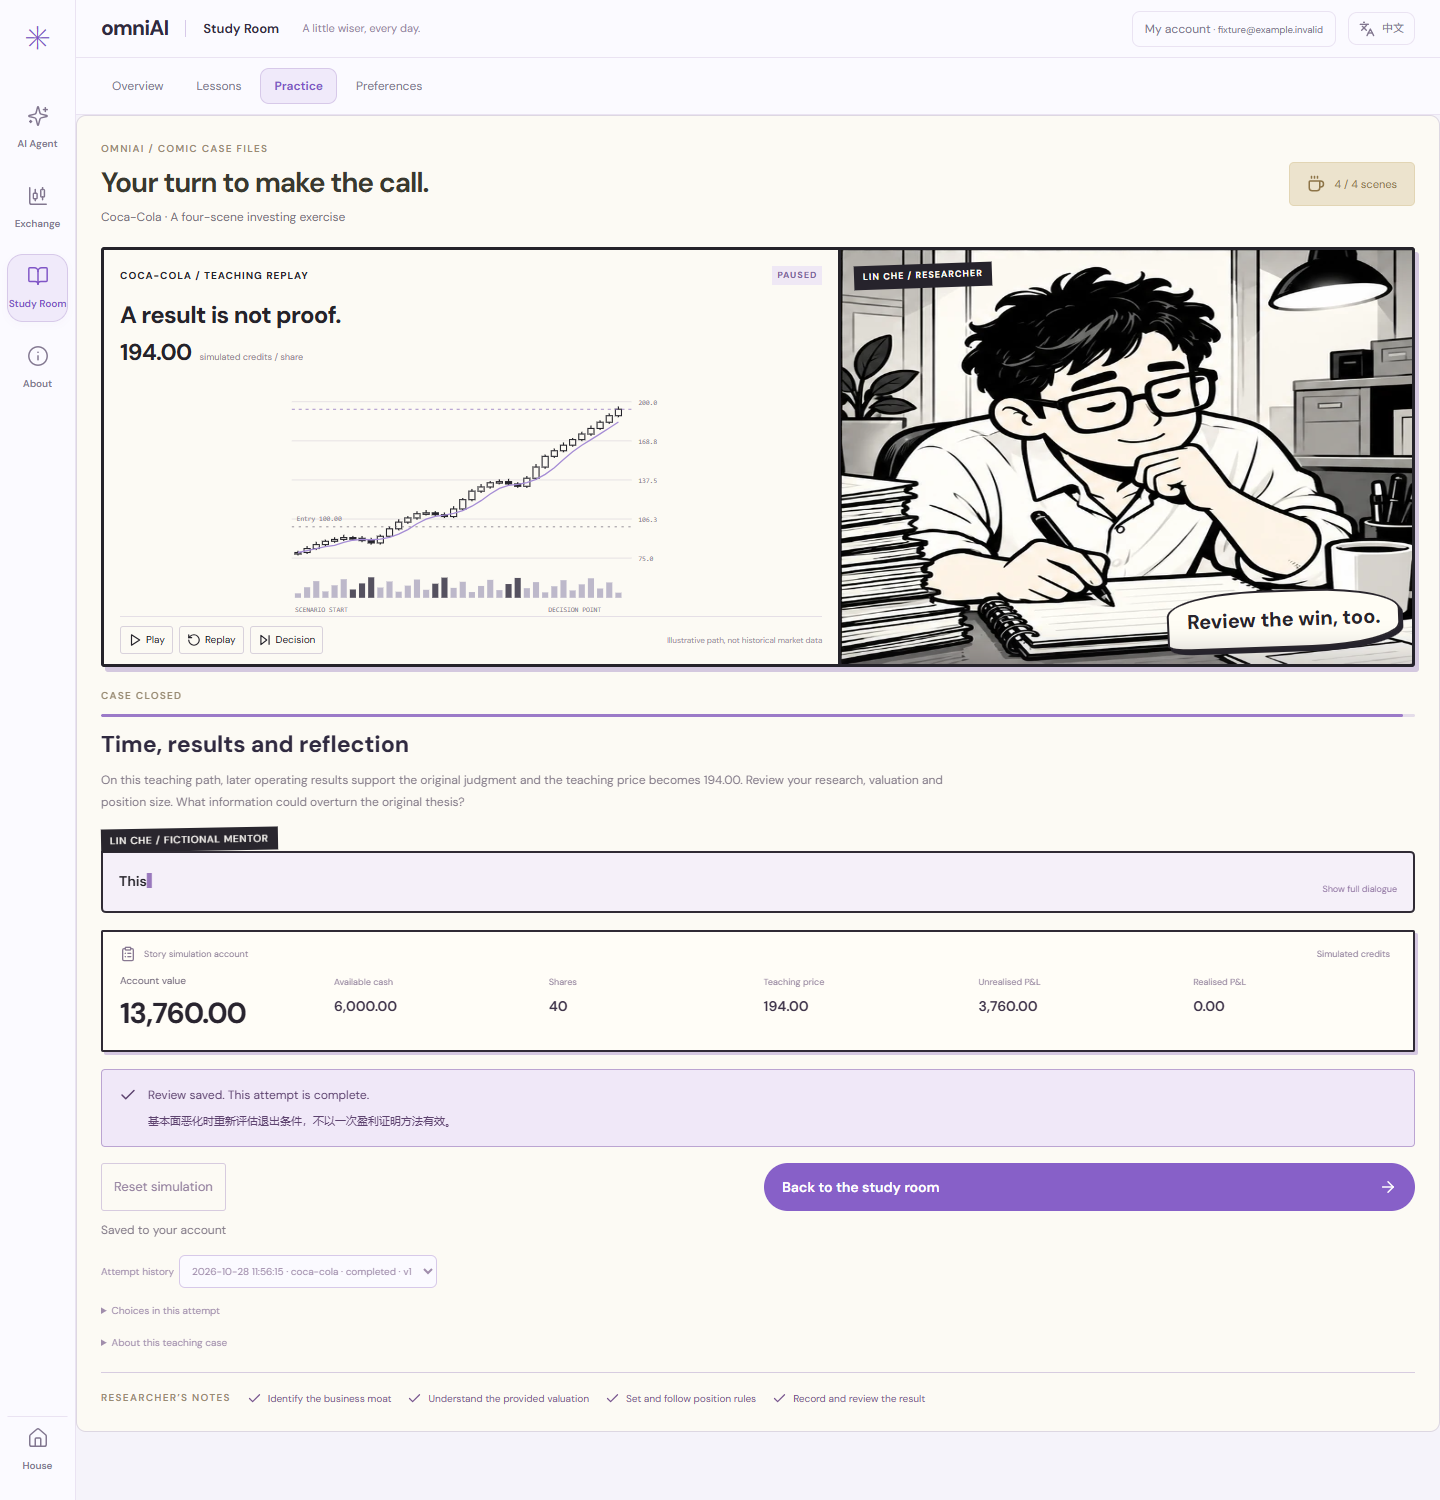
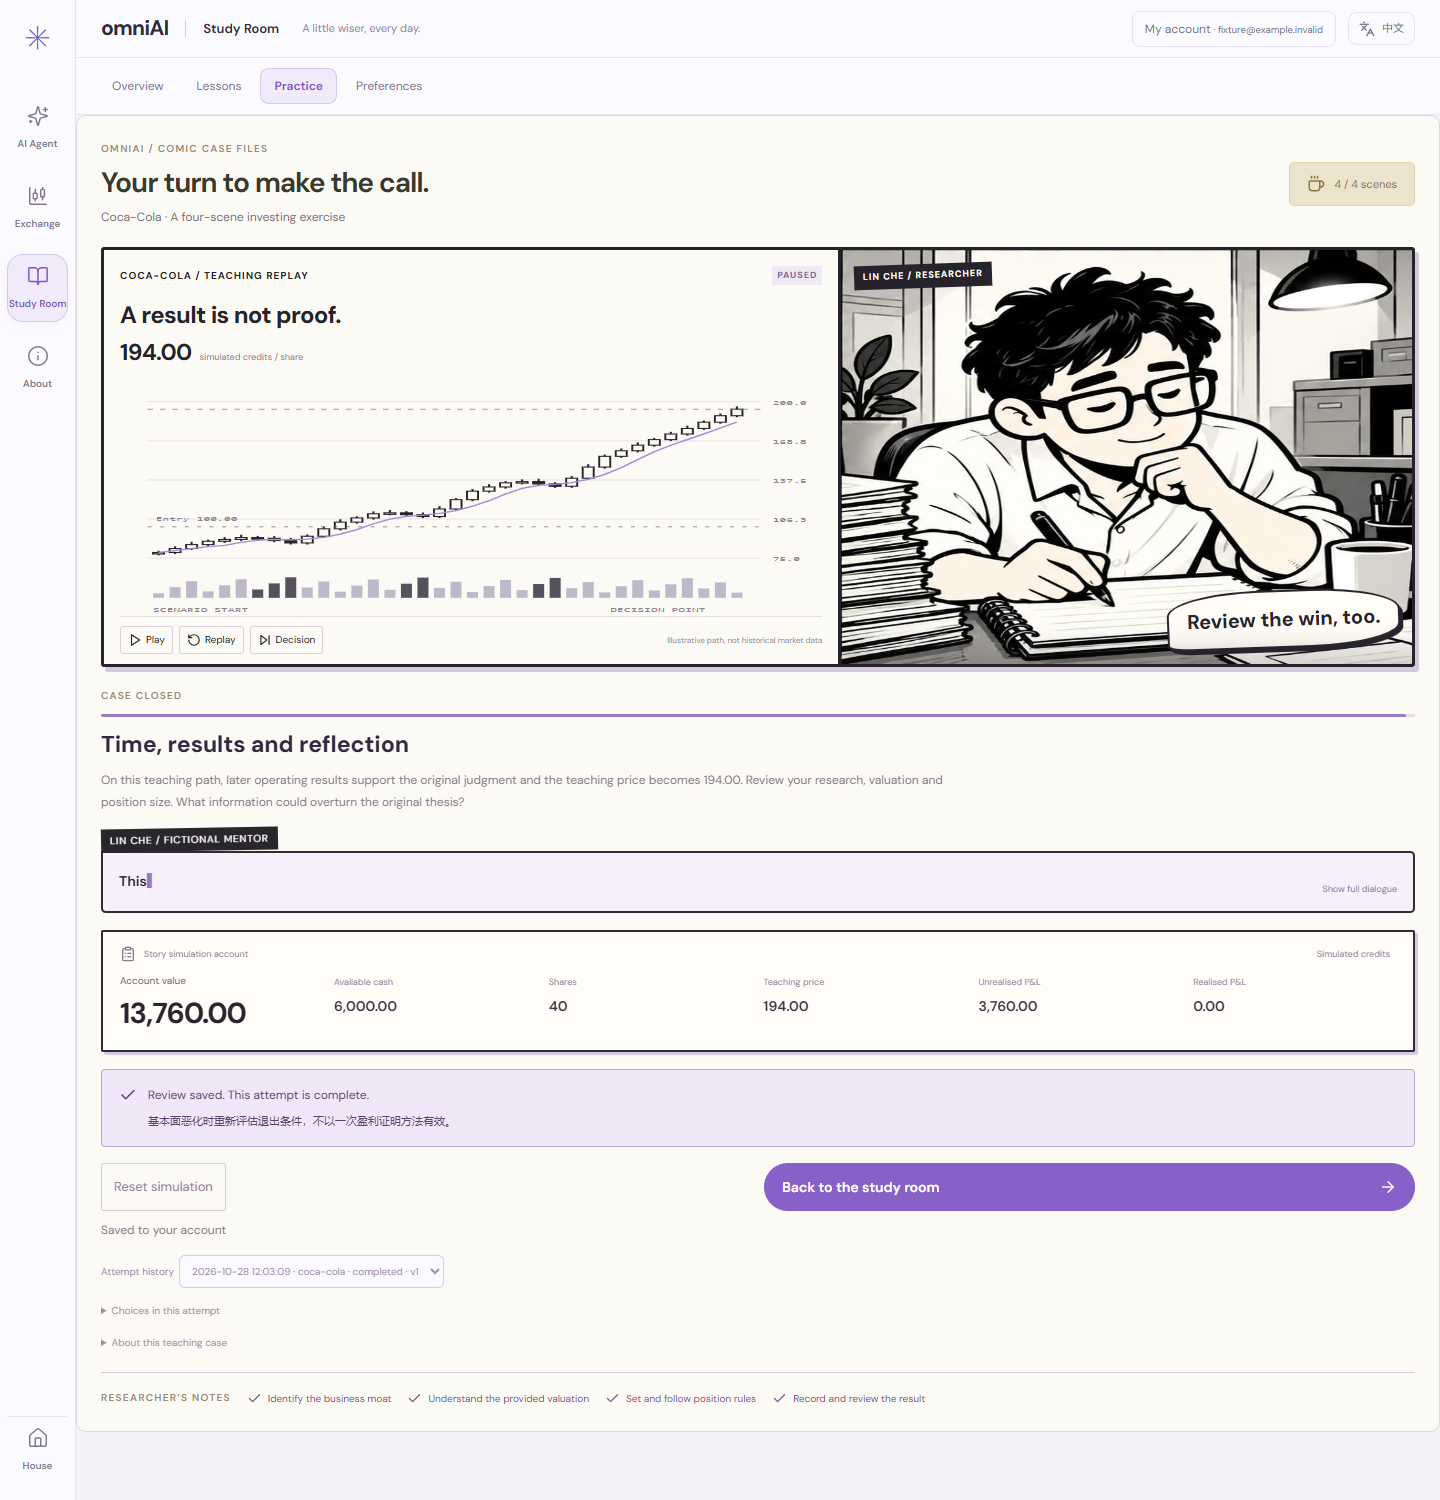
fix: let the comic candlestick replay fill its panel

Changed region(s): [[0.0938, 0.3373, 0.5, 0.3987], [0.3125, 0.276, 0.5, 0.3373]]

diff --git a/components/academy/ComicStage.tsx b/components/academy/ComicStage.tsx
@@ -44,7 +44,7 @@ export function ComicStage({ scene, lang, stopped, reduced }: { scene: number; l
       <div className="comic-panel-label"><span>{en?'COCA-COLA / TEACHING REPLAY':'可口可乐 / 教学回放'}</span><span className="comic-replay-state">{playing?(en?'PLAYING':'回放中'):(en?'PAUSED':'已暂停')}</span></div>
       <div className="comic-quote">{index===2?(en?'The price fell. What changed?':'又跌了？！判断依据变了吗？'):index===3?(en?'A result is not proof.':'结果，不等于证明。'):index===1?(en?'Good business. Fair price?':'好公司，也要好价格。'):(en?'Start with the evidence.':'先看证据，再看价格。')}</div>
       <div className="comic-price"><strong data-testid="replay-price">{current.close.toFixed(2)}</strong><span>{en?'simulated credits / share':'模拟币 / 份'}</span></div>
-      <svg viewBox="0 0 510 315" className="comic-candles" role="img" aria-label={en?'Animated simulated candlestick replay':'动态教学 K 线回放'}>
+      <svg viewBox="0 0 510 315" preserveAspectRatio="none" className="comic-candles" role="img" aria-label={en?'Animated simulated candlestick replay':'动态教学 K 线回放'}>
         {[0,1,2,3,4].map(i=><g key={i}><line x1="20" x2="465" y1={35+i*51.25} y2={35+i*51.25} className="comic-gridline"/><text x="474" y={39+i*51.25}>{(max-(max-min)*i/4).toFixed(1)}</text></g>)}
         {visible.map((c,i)=><g key={i} className="comic-candle" data-candle={i}>
           <line x1={28+i*12} x2={28+i*12} y1={y(c.high)} y2={y(c.low)} stroke="#24232a" strokeWidth="1.5"/>
